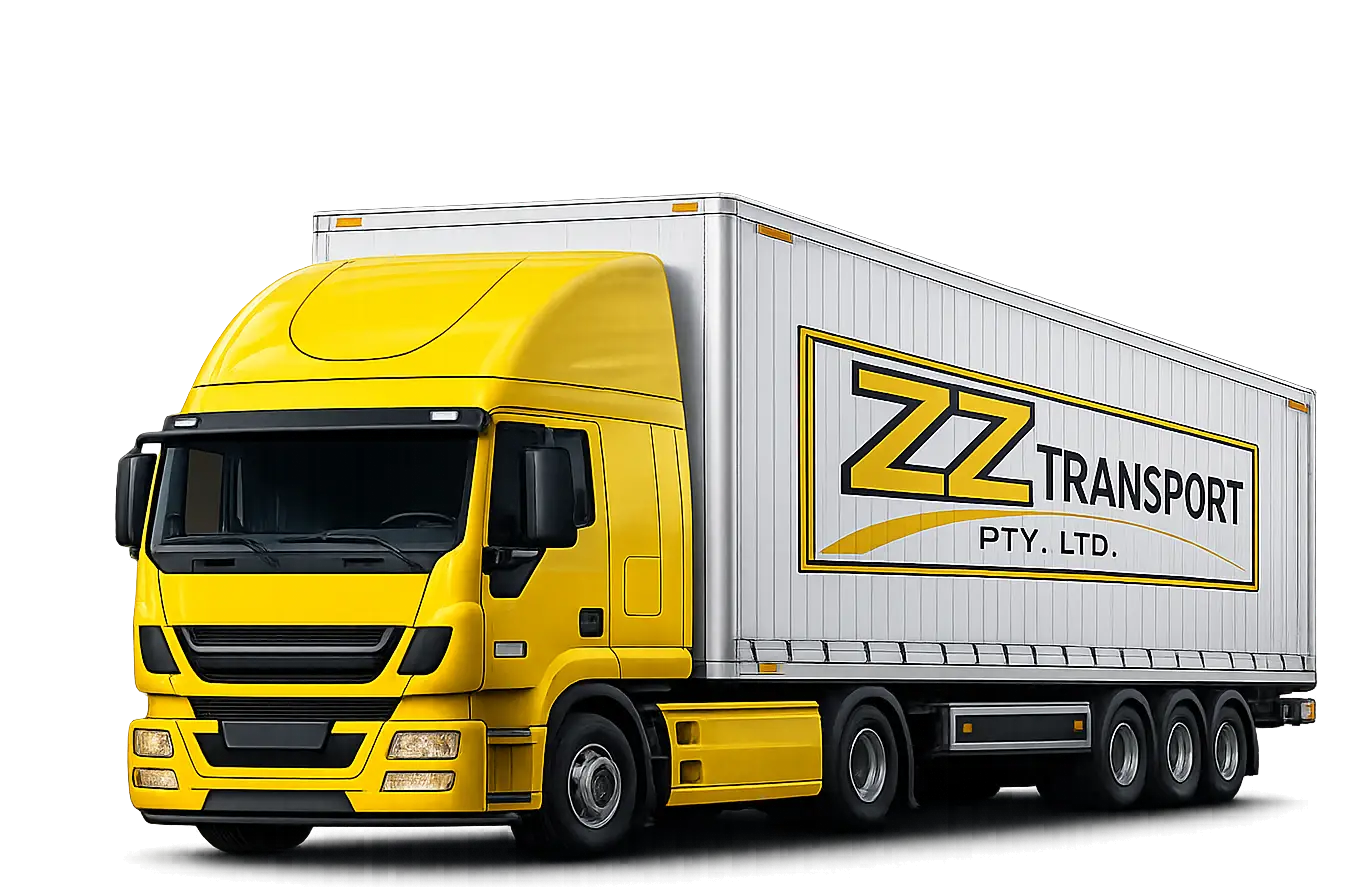
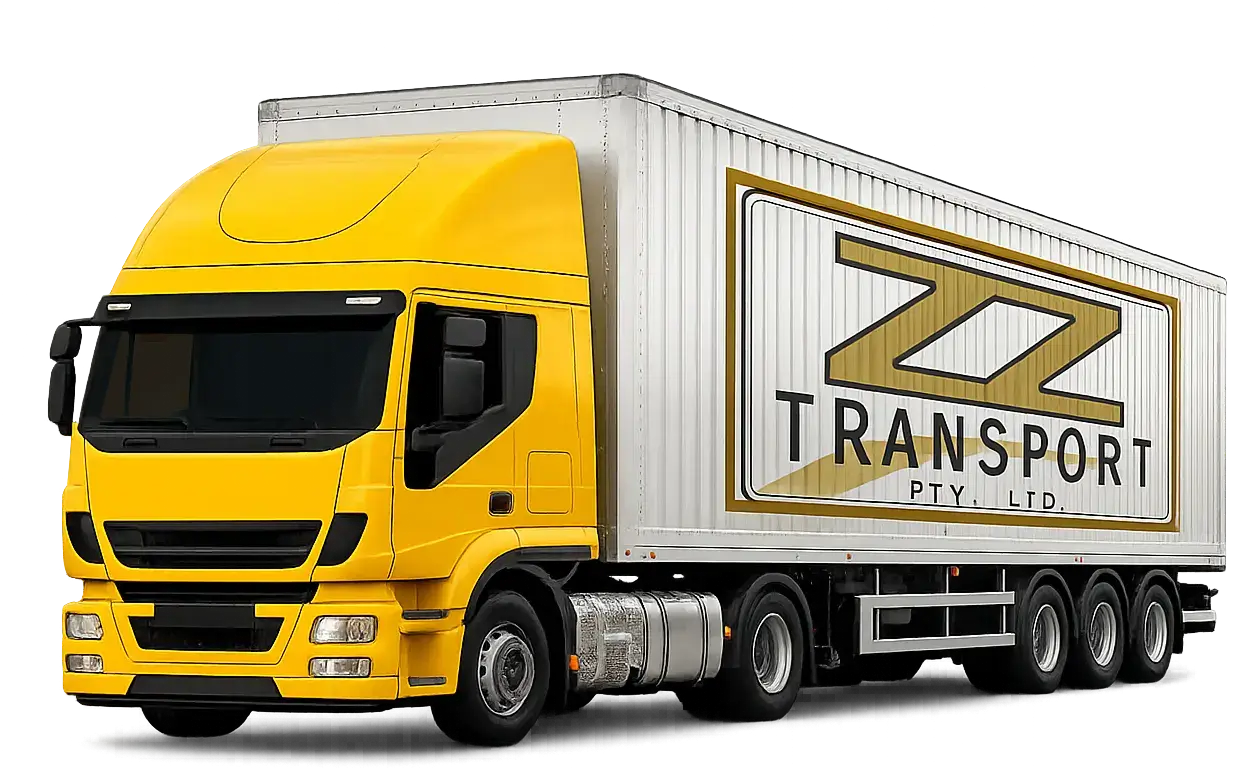
Adjust SAFE FAST RELIABLE text size

diff --git a/src/components/Hero.tsx b/src/components/Hero.tsx
@@ -121,7 +121,7 @@ export default function Hero() {
                 <div className="flex items-center gap-1">
                   <div className="text-right">
                     <p className="text-[11px] text-gray-400 uppercase tracking-widest leading-none font-sans font-bold">ZZ Transport</p>
-                    <p className="text-4xl font-black font-display text-[#F5A623] leading-tight select-none mt-1">SAFE | FAST | RELIABLE</p>
+                    <p className="text-2xl font-black font-display text-[#F5A623] leading-tight select-none mt-1">SAFE | FAST | RELIABLE</p>
                   </div>
                   {/* Diagonal line indicator pointing to white container cargo */}
                   <svg width="110" height="60" className="pointer-events-none opacity-85" viewBox="0 0 110 60">
@@ -135,9 +135,11 @@ export default function Hero() {
               <img
                 src="/images/zz-truck.webp"
                 alt="ZZ Transport Truck"
+                loading="eager"
+                fetchPriority="high"
+                decoding="async"
                 style={{
-                  width: '90%',
-                  maxWidth: 'none',
+                  width: '100%',
                   height: 'auto',
                   objectFit: 'contain',
                   background: 'transparent',
@@ -145,6 +147,7 @@ export default function Hero() {
                   borderRadius: '0',
                   boxShadow: 'none',
                   filter: 'drop-shadow(0 40px 80px rgba(245,166,35,0.3))',
+                  willChange: 'transform',
                 }}
               />
 

diff --git a/vite.config.ts b/vite.config.ts
@@ -11,6 +11,14 @@ export default defineConfig(() => {
         '@': path.resolve(__dirname, './src'),
       },
     },
+    build: {
+      assetsInlineLimit: 0,
+      rollupOptions: {
+        output: {
+          assetFileNames: 'assets/[name][extname]'
+        }
+      }
+    },
     server: {
       // HMR is disabled in AI Studio via DISABLE_HMR env var.
       // Do not modifyâfile watching is disabled to prevent flickering during agent edits.

diff --git a/src/App.tsx b/src/App.tsx
@@ -3,6 +3,9 @@ import Navbar from "./components/Navbar";
 import Footer from "./components/Footer";
 import PageTransition, { TransitionProvider, useTransitionRouter } from "./components/PageTransition";
 
+const preloadImage = new Image();
+preloadImage.src = '/images/zz-truck.png';
+
 const Hero = lazy(() => import("./components/Hero"));
 const Services = lazy(() => import("./components/Services"));
 const Fleet = lazy(() => import("./components/Fleet"));